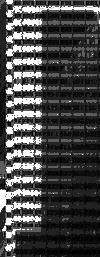
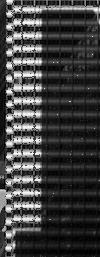
Poisson blend.

diff --git a/code/blend.py b/code/blend.py
@@ -92,7 +92,7 @@ def poisson_blend(source, mask, target):
     Returns:
         np.array of blended image
     """
-
+    print(source.shape, mask.shape, target.shape)
     # TODO: Implement this function!
     src_r, src_g, src_b = source[:, :, 0], source[:, :, 1], source[:, :, 2]
     mask_r, mask_g, mask_b = mask[:, :, 0], mask[:, :, 1], mask[:, :, 2]
@@ -103,23 +103,29 @@ def poisson_blend(source, mask, target):
     blend_g, _ = poisson_blend_channel(src_g, mask_g, tgt_g, A=A)
     blend_b, _ = poisson_blend_channel(src_b, mask_b, tgt_b, A=A)
 
-    return np.stack([blend_r, blend_g, blend_b], axis=2) / 255
+    return np.stack([blend_r, blend_g, blend_b], axis=2)
 
 def blend_one(im, mask):
+    print(im.shape)
     one_d_mask = mask[:, :, 0]
     # masked_im = im.copy()
     # masked_im[one_d_mask == 0] = 0
     # masked_im_2 = im.copy()
     # masked_im_2[one_d_mask == 255] = 0
-    # plt.imshow(one_d_mask)
-    # plt.show()
+    plt.imshow(one_d_mask)
+    plt.show()
+    print(np.unique(one_d_mask))
+    print(np.max(one_d_mask))
+    print(np.min(one_d_mask))
     # plt.imshow(masked_im)
     # plt.show()
     # plt.imshow(masked_im_2)
     # plt.show()
     inverted = mask.copy().astype(np.float32)
-    inverted[one_d_mask == 255] = [0, 0, 0]
-    inverted[one_d_mask < 255] = [255, 255, 255]
+    inverted[one_d_mask >= 127] = [0, 0, 0]
+    inverted[one_d_mask < 127] = [1., 1., 1.]
+    # inverted = gaussian(inverted, sigma=0.5)
+    # inverted[inverted < 1] = 0
     h, w, _ = mask.shape
     inverted[:, 0:2, :] = 0
     inverted[:, w-2:w, :] = 0
@@ -127,7 +133,15 @@ def blend_one(im, mask):
     inverted[h-2:h, :, :] = 0
     plt.imshow(inverted)
     plt.show()
-    plt.imshow(poisson_blend(im, inverted.astype(np.float32), im))
+    building = cv2.imread('../data/IMG_1167.jpg')
+    building = cv2.cvtColor(building, cv2.COLOR_BGR2GRAY)
+    building = np.stack([building] * 3, axis=2)
+    blended = poisson_blend(im.astype(np.float32) / 255, 
+                            inverted.astype(np.float32), 
+                            building.astype(np.float32) / 255)
+    plt.imshow(blended)
+    plt.show()
+    plt.imshow(im)
     plt.show()
     ### CURRENTLY Making white because colliding with the wall I suppose. Need 
     ### to add a black border around mask?
